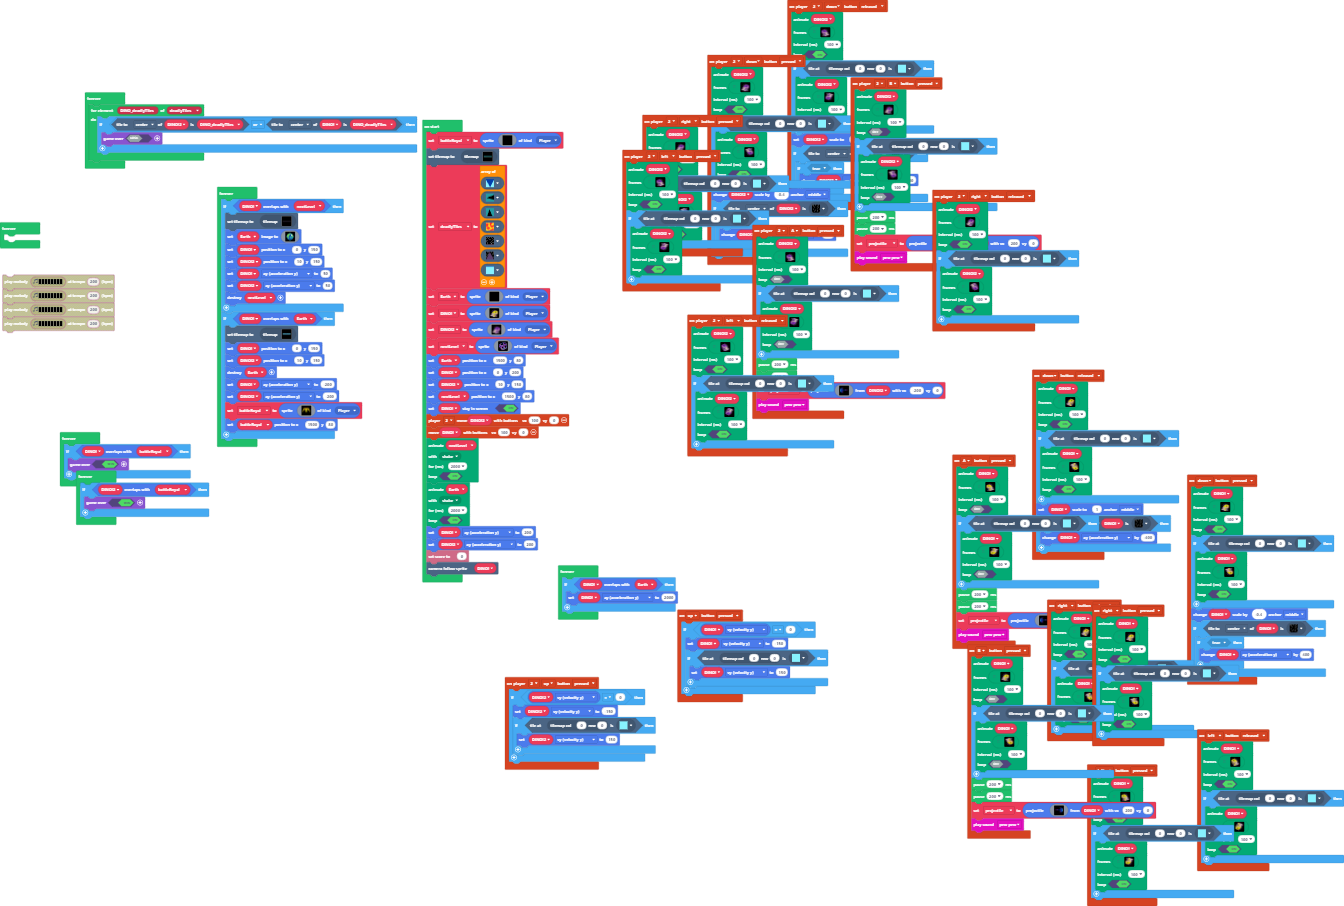
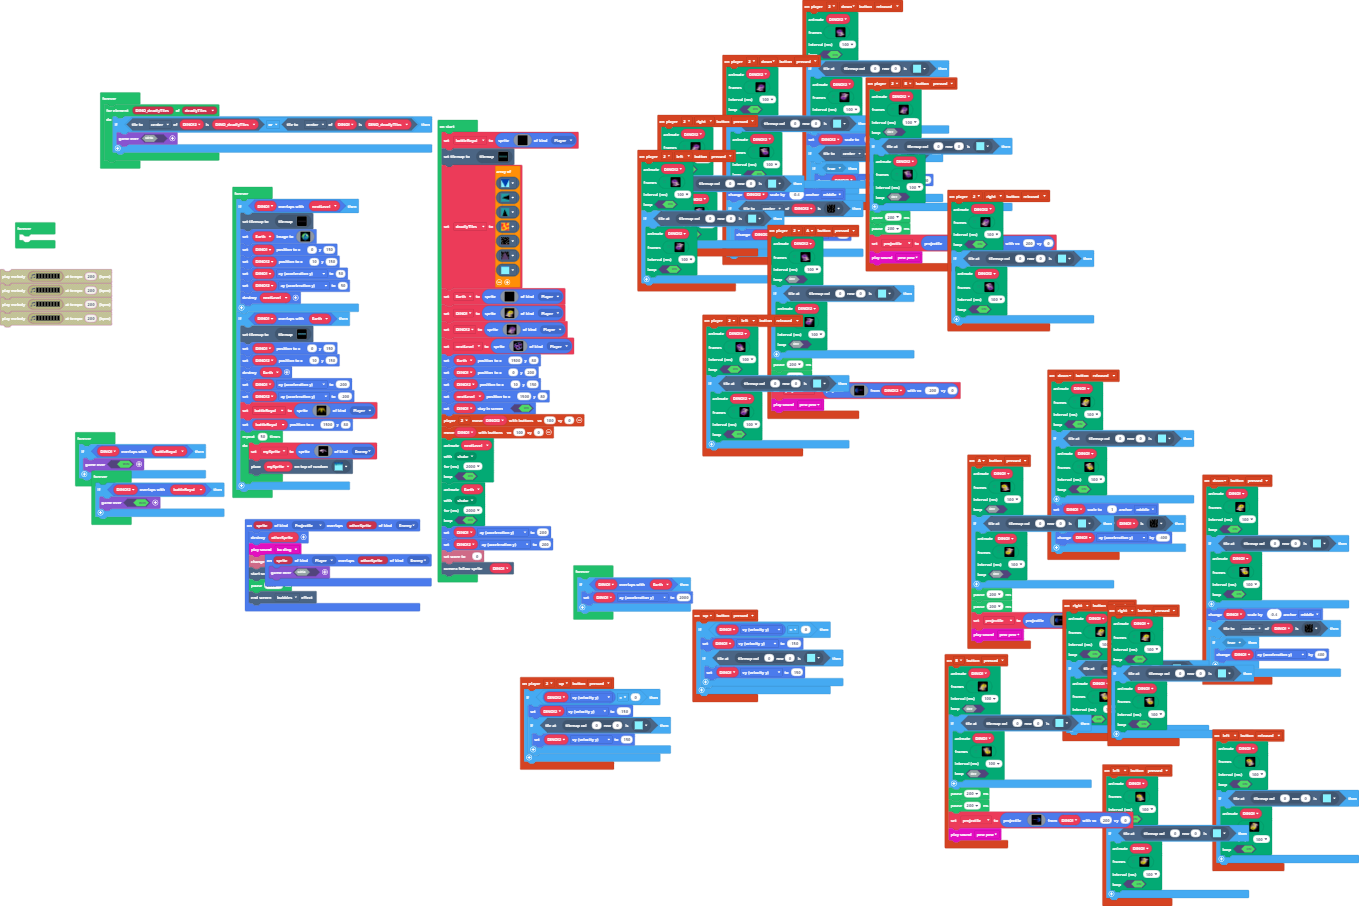
shark enemies complete

diff --git a/tilemap.g.ts b/tilemap.g.ts
@@ -44,6 +44,8 @@ namespace myTiles {
     export const tile20 = image.ofBuffer(hex``);
     //% fixedInstance jres blockIdentity=images._tile
     export const tile21 = image.ofBuffer(hex``);
+    //% fixedInstance jres blockIdentity=images._tile
+    export const tile22 = image.ofBuffer(hex``);
 
     helpers._registerFactory("tilemap", function(name: string) {
         switch(helpers.stringTrim(name)) {
@@ -386,7 +388,7 @@ namespace myTiles {
 2...................................................................................................
 `, [myTiles.transparency16,myTiles.tile1,myTiles.tile4,sprites.dungeon.hazardLava1,myTiles.tile6,myTiles.tile7,myTiles.tile8,myTiles.tile19], TileScale.Sixteen);
             case "level7":
-            case "level7":return tiles.createTilemap(hex`6400100001040404040404040404040404040404040404040404040404040404040404040404040404040404040404040404040404040404040404040404040404040404040404040404040404040404040404040404040404040404040404040404040404040404050505050505050505050505050505050505050505050505050505050505050505050505050505050505050505050505050505050505050505050505050505050505050505050505050505050505050505050505050505050505050505050505050505050505050505050505050202020202020505050502050505050505050505050505050505020202020202050505050505050505050505050505050505020202020202020202020202050505050505050505050505050505050505050505050505050505050505050505050505050505050505030505050505050505050505050505050505050505050503050505020202020202020202050505050505050505020505050503050505050305050505050505050502020202020202020205050505020202020202020505020202020202020505050505050505050505050505020202020205050505050505050505050505050505050305050505050505050505050505050505050505050505050505050505050505050505050505050305050505050505050205050505050505050505050505030505050505050505050505050505050505030505020202020202020505050505050505050505050505050505050505050505050505050505050505050505050505050202020205050505050505050505050202020202050505050505050505050505050505050505050505050505050505050505050505050505050503050505050505050502020202020202020202020202050505050505050505050505050505050505050505050505050505050505050505050505050503050505050505050505050505050505050502020202020202020205050505050505050505050505050505050505050505050505050505050503050505050505050505050505050505050505050505050505050505050505050505050505050505050505050505050505050505050505050505050505050503050505030505050505050505050505050505050505050505020202020202020202050505050505050505050505050505050502020202020202020202050505050505050505050505050505050505050505050505050505050505050505050505050505050505050505050505050505050505050505050505050505050505050505030505050505050505050505050505050505050505050505050305050505050505050505050505050505050505050505050505050505050505050505050505050505050505050505050502020202020205050505050505050505050505050505050505050505050505050505050505050505050505050505050505050505050505050505050505050505050505050502020202020505050505050505050505050505050505050505050505050505050503050505050505050505050202020202020202020205050505050505050505050502020202020202020202020202050505050505050505050505050505050505050505050503050505050505050505050505050505050505020202020202020505050505050505050505050505050505050305050505050505050505050505050505050505050505050505050505030505050505050505050505050505050502020202020205050505050505050505050505050505050505050505050505050503050505050502020202020205050505050505050505050505050505050505050505050505050505050505050502050505050505050505050505050505050505050505050503050505050505050505050505050505050505050505050505050505050505050505050505050505050305050505050505050505050505050505050505050505050505020202020202020202050505050505050505050505050505050505050505050505050505050505050505050202020202020205050505050505050505050505050505050505050505050505050505050505050505050505050505050505050505050505050505050505050505050505050505050505050505050505050505050505050505050505050505050505050205050503050505050505050505`, img`
+            case "level7":return tiles.createTilemap(hex`6400100001040404040404040404040404040404040404040404040404040404040404040404040404040404040404040404040404040404040404040404040404040404040404040404040404040404040404040404040404040404040404040404040404040404050505050505050505050505050505050505050505050505050505050505050505050505050505050505050505050505050505050505050505050505050505050505050505050505050505050505050505050505050505050505050505050505050505050505050505050505050202020202020505050502050505050505050505050505050505020202020202050505050505050505050505050505050505020202020202020202020202050505050505050505050505050505050505050505050505050505050505050505050505050506060606030605050505060505050505050505050505050505050603060606020202020202020202050505050505050505020606060603060606060306060505050505050502020202020202020205050505020202020202020505020202020202020505050505050505050505050505020202020205050505050505050505050505050606060306060606060505050505050505050605050505050505050505050505050505050505060606060306060606050505050205050505050505050505050505030505050505050505050505050505050606030606020202020202020505050505050505050505050505050505050505050505050505050505050505050505050505050202020205050505050505050505050202020202050505050505050505050505050505050505050505050505050505050505050505050606060603060605050505050502020202020202020202020202050505050505050505050505050505050505050506060606050505050505050505050506060603050505050505050505050505050505050502020202020202020205050505050505050505050505050505050505050505060606060606060603060606060505050505050505050505050505050505050505050505050505050505050505050505050505050505050505050505050505050505050505060603060606030606050505050505050505050505050505050505020202020202020202050505050505050505050505050505050502020202020202020202050505050505050505050505050505050505050505050505050505050505050505050505050505050505050505050505050505050505050505050505050505050606060606030606060505050505050505050505050505050505060606060306060606060505050505050505050505050505050505050505050505050505050505050505050505050505050505050502020202020205050505050505050505050505050505050505050505050505050505050505050505050505050505050505050505050505050505050505050505050505050502020202020505050505050505050505050505050505050505050505050505060603060606050505050505050202020202020202020205050505050505050505050502020202020202020202020202050505050505050505050505050505050505050505060603060605050505050505050505050505050505020202020202020505050505050505050505050505050506060306060606060606050505050505050505050505060606060606060606030606060505050505050505050505050502020202020205050505050505050505050505050505050505050505050505050603060605050502020202020205050505050505050505050505050505050505050505050505050505050505050502050505050505050505050505050505050505050505060603060606050505050505050505050505050505050505050505050505050505050505050505050606060306050505050505050505050505050505050505050505050505020202020202020202050505050505050505050505050505050505050505050505050505050505050505050202020202020205050505050505050505050505050505050505050505050505050505050505050505050505050505050505050505050505050505050505050505050505050505050505050505050505050505050505050505050505050505050505050206060603060606050505050505`, img`
 ....................................................................................................
 ....................................................................................................
 .........222222....2...............222222..................222222222222.............................
@@ -403,7 +405,7 @@ namespace myTiles {
 ..............222222.................................2..............................................
 ............................................222222222..................................2222222......
 ......................................................................................2.............
-`, [myTiles.transparency16,myTiles.tile15,myTiles.tile18,myTiles.tile20,myTiles.tile21,sprites.dungeon.hazardWater], TileScale.Sixteen);
+`, [myTiles.transparency16,myTiles.tile15,myTiles.tile18,myTiles.tile20,myTiles.tile21,sprites.dungeon.hazardWater,myTiles.tile22], TileScale.Sixteen);
         }
         return null;
     })
@@ -453,6 +455,8 @@ namespace myTiles {
             case "tile20":return tile20;
             case "myTile19":
             case "tile21":return tile21;
+            case "myTile20":
+            case "tile22":return tile22;
         }
         return null;
     })

diff --git a/main.ts b/main.ts
@@ -3184,6 +3184,18 @@ controller.player2.onButtonEvent(ControllerButton.Right, ControllerButtonEvent.R
         )
     }
 })
+sprites.onOverlap(SpriteKind.Projectile, SpriteKind.Enemy, function (sprite, otherSprite) {
+    otherSprite.destroy()
+    music.baDing.play()
+    info.changeScoreBy(1)
+    effects.bubbles.startScreenEffect()
+    pause(2000)
+    effects.bubbles.endScreenEffect()
+})
+sprites.onOverlap(SpriteKind.Player, SpriteKind.Enemy, function (sprite, otherSprite) {
+    game.over(false)
+})
+let mySprite: Sprite = null
 let projectile: Sprite = null
 let DINO2: Sprite = null
 let DINO: Sprite = null
@@ -3395,6 +3407,27 @@ forever(function () {
             .....................5.....................
             `, SpriteKind.Player)
         battleRoyal.setPosition(1500, 80)
+        for (let index = 0; index < 50; index++) {
+            mySprite = sprites.create(img`
+                .............fffff..............
+                ........ccccfcdbbcc........fff..
+                ....fccc111fbdbbccdcc.....fbbf..
+                ...fc13c111cbbbfcddddcc..fbbf...
+                ..fccc31c111bbbcccccbdbffbbcf...
+                .fb11133cc11bbbbcccccccccccf....
+                fbbb11111111bbbbbcccccccbbcf....
+                fbcbbb11ff1bcbbbbbcccccffbbf....
+                ffbbbbbbffbbcbcbbbcccccfcdbbf...
+                ..fbbbbbbbbcbcbbbbcccff.cdbbc...
+                ...ffbbbbbbbcbbbbcfff....ccbbc..
+                .....fffffccccccff.........ccc..
+                ..........fccbbcf...............
+                ..........ccddbbf...............
+                ...........ccddbcf..............
+                .............ccfff..............
+                `, SpriteKind.Enemy)
+            tiles.placeOnRandomTile(mySprite, assets.tile`myTile20`)
+        }
     }
 })
 forever(function () {
